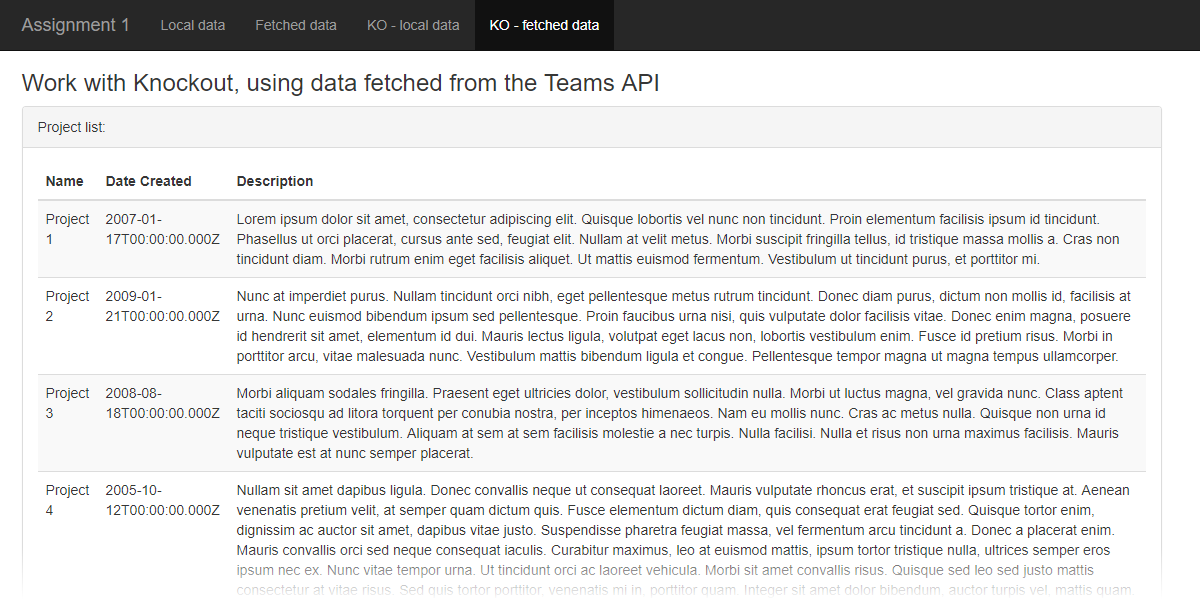
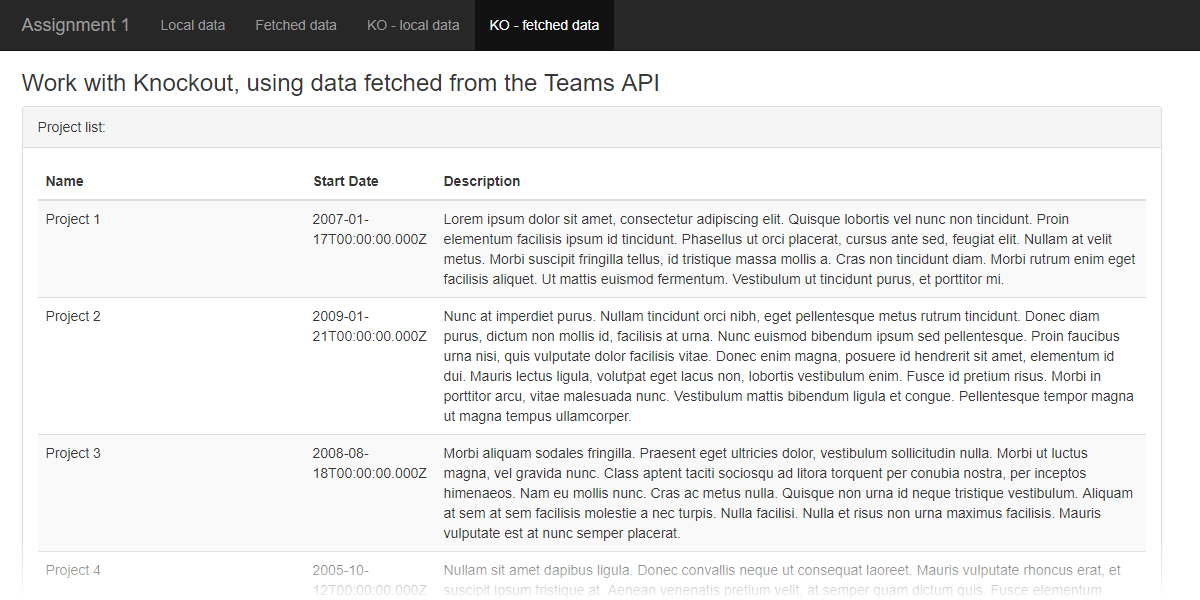
Assign 1 updates

diff --git a/graded-work/assign1.md b/graded-work/assign1.md
@@ -5,9 +5,6 @@ layout: default
 
 ## BTI425 Assignment 1
 
-> This document is being edited.  
-> This notice will be removed when the edits are complete.
-
 The purpose or objective of the assignment is to get some experience with widely-used JavaScript libraries, including jQuery, Moment, Lodash, and Knockout. In addition, we will work with the Bootstrap framework. 
 
 Read/skim all of this document before you begin work.
@@ -389,7 +386,7 @@ Some of the tasks on this page are similar to the "fetched" data page, above.
 
 This page will display a list of projects from the Teams API. It will enable the user to edit the project *name* and *description*. Here's an example of what you will create:
 
-![Fetched data, with Knockout](../media/a1/fetchedkov2.png)
+![Fetched data, with Knockout](../media/a1/fetchedkov5.png)
 
 <br>
 
@@ -469,7 +466,7 @@ First, set the value (which is an empty array) of `self.projects` to be a [Knock
 
 This enables Knockout to update the UI if the value (content) of the array changes. Will it change? Yes. The array will start out empty, and then it will fill up with the fetched data. We want Knockout to detect this, and update the UI auto-magically. 
 
-Next, add some data-fetching code. A [really convenient jQuery function](http://api.jquery.com/jquery.getjson/) to use is `getJSON()`. 
+Next, add some data-fetching code. A [really convenient jQuery "shorthand" method](http://api.jquery.com/jquery.getjson/) to use is `getJSON()`. This method assumes GET, JSON data, and success. (If that doesn't meet your needs, then use the regular `ajax()` method.)
 
 ```js
 $.getJSON('https://path-to-your-teams-api.herokuapp.com/projects', function (data) {
@@ -481,13 +478,114 @@ $.getJSON('https://path-to-your-teams-api.herokuapp.com/projects', function (dat
 
 At this point in time, your page should load data. 
 
-( more to come )
+![Fetched data, with Knockout](../media/a1/fetchedkov2.png)
+
+<br>
+
+Now, we will enable project's *name* and *description* properties to be edited. Above, you created `<td>` elements with `data-bind` attributes. Replace those with plain `<td>` elements. Inside, we will add an HTML Forms control. 
+
+The project's *name* is usually a reasonably short value. A standard text box will work here. Its `data-bind` attribute will use [the "value" binding](http://knockoutjs.com/documentation/value-binding.html). 
+
+> All HTML Forms controls *must* use the Boostrap class `form-control`.  
+> When you do this, it draws nice-sized rounded-corner controls, with the correct font, etc. 
+
+The project's *description* is usually a longer value. A text area will work here. Its `data-bind` attribute will also use the "value" binding. 
+
+> A Bootstrap-styled `textarea` must have a `rows` attribute, but NOT a `columns` attribute. 
+> Its `form-control` class will cause it to fill the width allowed by its parent container.
+
+One more thing... We need a "save" button for each project. Add another column in both the `<thead>` and `<tbody>` elements. In the `<tbody>` element, add a `<button>` element. How is it configured?
+
+First, Bootstrap: The [buttons documentation](https://getbootstrap.com/docs/3.3/css/#buttons) tells us to add the `btn` class. Optionally, we can add another class to set the button's background colour (for example, `btn-default`). 
+
+Next: Knockout: On this page, we do NOT want our button and the HTML Forms fields to be enclosed by a `<form>` element. (In other words, it will NOT be a "submit" button.) Instead, we'll just write a JavaScript function to handle the button's "click" event. 
+
+The [Knockout "click" binding](http://knockoutjs.com/documentation/click-binding.html) documentation tells us to add a `data-bind` attribute to the button:
+
+```html
+data-bind="click: save"
+```
+
+(This is also demonstrated in Step 4 of the ["Loading and saving data" tutorial](http://learn.knockoutjs.com/#/?tutorial=loadingsaving) on the Knockout learning/tutorials web site.)
+
+Next, it tells us to edit the view model function. *Inside* the view model function, write another "save" function, which would look something like this for now:
+
+```js
+self.save = function(project) {
+	console.log(project);
+};
+```
+
+Show your page. Uh oh. It renders only one row. And, it throws an exception (as seen in the JavaScript console):
+
+![Fetched data, with Knockout](../media/a1/fetchedkov4.png)
+
+<br>
+
+![Fetched data, with Knockout](../media/a1/fetchedkov4error.png)
+
+<br>
+
+The problem is the [binding context](http://knockoutjs.com/documentation/binding-context.html). To briefly explain, the "save" button is looking for a JavaScript function named "save" in the current "location" (or context), which is the object (or row of data). The function is NOT found or located in this row of data. 
+
+Instead, the "save" function is in the *view model* object. From the perspective of the object (or row of data), the view model is its "parent" or "root". (Think in terms of hierarchies.)
+
+So, to fix this, we have to add the location of the "save" function to the `data-bind` attribute. Something like this (and either form will work here):
+
+```html
+<!-- Use this form... -->
+data-bind="click: $parent.save"
+<!-- ...or this form... -->
+data-bind="click: $root.save"
+```
+
+Save your work, and run your page again. At this point in time, your page should look like the following. Clicking one of the buttons should show the data inside the clicked object in the JavaScript console. 
+
+![Fetched data, with Knockout](../media/a1/fetchedkov3.png)
+
+<br>
+
+One final task... edit the "save" function to post the edited data back to the Teams API. Above, we had a simple `console.log()` statement. Replace that with a jQuery `.ajax()` statement, as discussed below
+
+When updating a resource, we use a [HTTP PUT](https://tools.ietf.org/html/rfc7231#section-4.3.4) request. It requires us to set the following in the request:
+* Request method, PUT
+* URL to the *specific* resource
+* A content type
+* Data, which (for our purposes, is the full/complete object that we are working with)
+
+In the Week 3 "knockout-Ajax" code example, there's an example of an HTTP PUT request, [starting on line 87](https://github.com/sictweb/bti425/blob/master/Week_03/knockout-Ajax/js/main.js#L87). 
+
+OK, good, that's helpful. In that code example, the "plainEmployee" object in line 90 is the data that is sent with the HTTP PUT request. In contrast, for our situation, we must send a "project" object.
+
+Just before we write the statement, let's look at the Teams API code. In its `server.js` source code file, [starting on line 153](https://github.com/sictweb/bti425/blob/master/Templates_and_solutions/teams-api/server.js#L153), we see the code for the function that listens for HTTP PUT requests to the `/project/:projectId` segment. 
+
+OK, now that we know where it's going, we have all we need to construct the statement, which will look similar to the following:
+
+```js
+// The project's identifier is in the _id property
+$.ajax({
+	url: `https://path-to-your-teams-api.herokuapp.com/project/${project._id}`,
+	type: "PUT",
+	data: JSON.stringify(project),
+	contentType: "application/json"
+})
+.done(function (data) {
+	console.log(data);
+})
+.fail(function (err) {
+	console.log('Unable to update the project');
+});
+```
+
+Run and test your code. Check the results in your JavaScript console. 
 
 <br>
 
 **Refine and improve**
 
-( more to come )
+The only code that needs fixing is the **date** format (as you have done before). Do that now. 
+
+The result should be similar to the screen capture at the beginning of this section. 
 
 <br>
 
